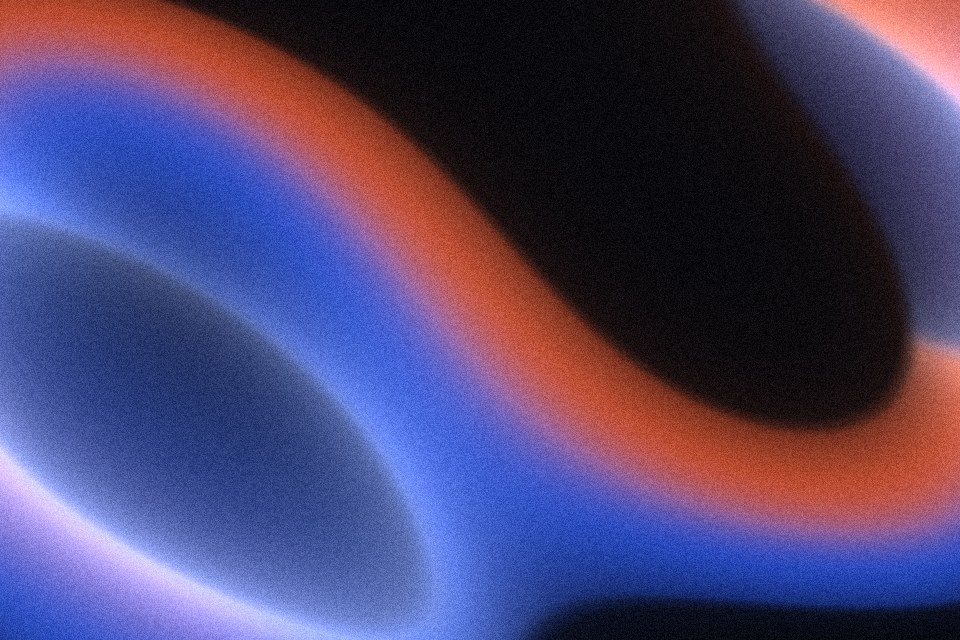
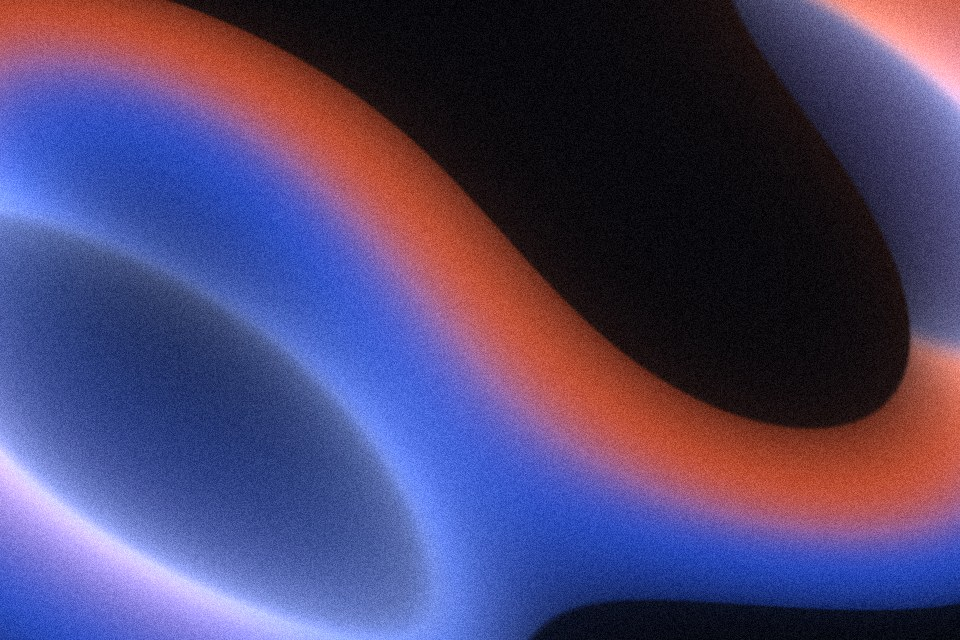
[ara kayıt] light ribbon: crisper void edge by default
Claude-Session: https://claude.ai/code/session_01QRuffggixVJJAW2e1kutrK

diff --git a/skills/unslopslop/effects/light-ribbon/demo.html b/skills/unslopslop/effects/light-ribbon/demo.html
@@ -296,7 +296,7 @@ FX.mount({
     { id: 'fold', label: 'Fold depth', min: 0, max: 2.5, step: 0.01, value: 1.9 },
     { id: 'split', label: 'Prism split', min: 0, max: 1, step: 0.01, value: 0.6 },
     { id: 'shine', label: 'Fold light', min: 0, max: 2, step: 0.01, value: 0.9 },
-    { id: 'soft', label: 'Edge softness', min: 0.002, max: 0.2, step: 0.001, value: 0.05 },
+    { id: 'soft', label: 'Edge softness', min: 0.002, max: 0.2, step: 0.001, value: 0.012 },
     { id: 'tilt', label: 'Tilt', min: -1.2, max: 1.2, step: 0.01, value: -0.35 },
     { id: 'speed', label: 'Flow', min: 0, max: 1, step: 0.01, value: 0.3 },
     { id: 'grain', label: 'Grain', min: 0, max: 0.3, step: 0.01, value: 0.09 }

diff --git a/skills/unslopslop/effects/light-ribbon/effect.js b/skills/unslopslop/effects/light-ribbon/effect.js
@@ -10,7 +10,7 @@ FX.mount({
     { id: 'fold', label: 'Fold depth', min: 0, max: 2.5, step: 0.01, value: 1.9 },
     { id: 'split', label: 'Prism split', min: 0, max: 1, step: 0.01, value: 0.6 },
     { id: 'shine', label: 'Fold light', min: 0, max: 2, step: 0.01, value: 0.9 },
-    { id: 'soft', label: 'Edge softness', min: 0.002, max: 0.2, step: 0.001, value: 0.05 },
+    { id: 'soft', label: 'Edge softness', min: 0.002, max: 0.2, step: 0.001, value: 0.012 },
     { id: 'tilt', label: 'Tilt', min: -1.2, max: 1.2, step: 0.01, value: -0.35 },
     { id: 'speed', label: 'Flow', min: 0, max: 1, step: 0.01, value: 0.3 },
     { id: 'grain', label: 'Grain', min: 0, max: 0.3, step: 0.01, value: 0.09 }

diff --git a/skills/unslopslop/effects/light-ribbon/README.md b/skills/unslopslop/effects/light-ribbon/README.md
@@ -26,7 +26,7 @@ Palette roles: void (most of the frame), cool edge, warm edge, highlight. A good
 | Fold depth | 0 to 2.5 | 1.9 |
 | Prism split | 0 to 1 | 0.6 |
 | Fold light | 0 to 2 | 0.9 |
-| Edge softness | 0.002 to 0.2 | 0.05 |
+| Edge softness | 0.002 to 0.2 | 0.012 |
 | Tilt | -1.2 to 1.2 | -0.35 |
 | Flow | 0 to 1 | 0.3 |
 | Grain | 0 to 0.3 | 0.09 |
